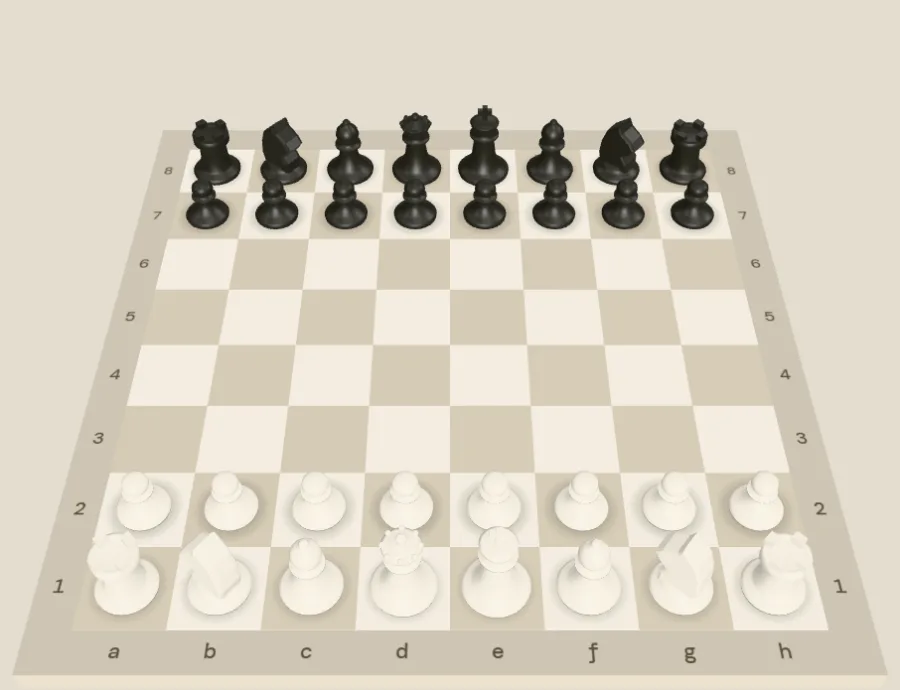
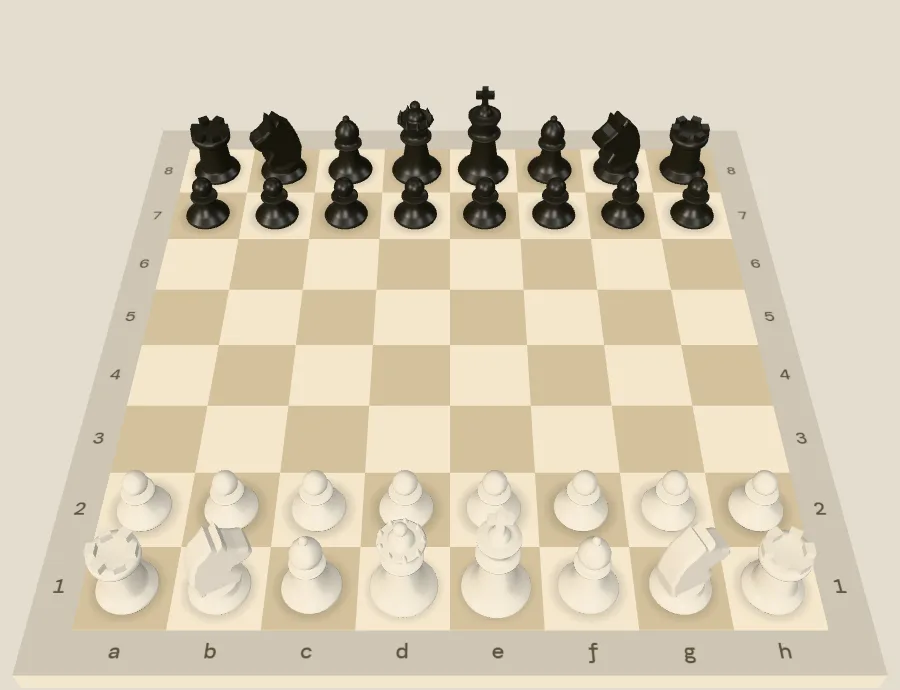
Redesign chess pieces as Staunton shapes with clearer contrast

Changed region(s): [[0.0622, 0.1217, 0.9022, 0.913], [0.2178, 0.1522, 0.2489, 0.1826], [0.1867, 0.1826, 0.2178, 0.213]]

diff --git a/assets/arcade/chess/pieces.js b/assets/arcade/chess/pieces.js
@@ -1,7 +1,11 @@
-// Procedural chess pieces: lathe profiles plus a few merged details. Built
+// Procedural Staunton pieces: lathe profiles plus a few merged details. Built
 // once at startup, so there is no model download. Units: one board square.
+// Each piece gets its own height and one bold signature (crenellations,
+// mitre, coronet, cross, horse head) so they read apart at a glance.
 import {
   BoxGeometry,
+  ConeGeometry,
+  CylinderGeometry,
   ExtrudeGeometry,
   LatheGeometry,
   Shape,
@@ -10,106 +14,104 @@ import {
 } from "three";
 import { mergeGeometries } from "three/addons/utils/BufferGeometryUtils.js";
 
-const SEGMENTS = 32;
+const SEGMENTS = 40;
 
-const BASE = [
-  [0, 0],
-  [0.34, 0],
-  [0.35, 0.05],
-  [0.31, 0.09],
-  [0.26, 0.12],
-  [0.23, 0.16],
-];
+// Stepped foot shared by every piece, scaled by its radius.
+function foot(r) {
+  return [
+    [0, 0],
+    [r, 0],
+    [r + 0.012, 0.025],
+    [r, 0.055],
+    [r - 0.035, 0.075],
+    [r - 0.04, 0.095],
+    [r - 0.075, 0.115],
+    [r - 0.085, 0.14],
+  ];
+}
+
+// Collar ring between stem and head.
+function collar(r, y) {
+  return [
+    [r - 0.02, y],
+    [r, y + 0.012],
+    [r, y + 0.03],
+    [r - 0.02, y + 0.042],
+  ];
+}
+
+// Quarter-to-half arcs for balls and domes, bottom to top.
+function arc(cy, radius, from = -Math.PI / 2, to = Math.PI / 2, steps = 10) {
+  const points = [];
+  for (let i = 0; i <= steps; i++) {
+    const a = from + ((to - from) * i) / steps;
+    points.push([Math.max(0, Math.cos(a) * radius), cy + Math.sin(a) * radius]);
+  }
+  return points;
+}
 
 const PROFILES = {
   p: [
-    [0, 0],
-    [0.3, 0],
-    [0.31, 0.05],
-    [0.28, 0.09],
-    [0.23, 0.12],
-    [0.21, 0.15],
-    [0.14, 0.22],
-    [0.11, 0.34],
-    [0.17, 0.37],
-    [0.17, 0.39],
-    [0.1, 0.41],
-    [0.13, 0.45],
-    [0.15, 0.5],
-    [0.14, 0.56],
-    [0.1, 0.6],
-    [0.05, 0.62],
-    [0, 0.625],
+    ...foot(0.3),
+    [0.16, 0.2],
+    [0.115, 0.33],
+    ...collar(0.19, 0.35),
+    [0.1, 0.405],
+    ...arc(0.53, 0.14, -1.05),
   ],
   r: [
-    ...BASE,
-    [0.2, 0.3],
-    [0.19, 0.52],
-    [0.23, 0.56],
-    [0.26, 0.58],
-    [0.26, 0.7],
-    [0.2, 0.7],
-    [0.2, 0.66],
-    [0, 0.66],
+    ...foot(0.33),
+    [0.225, 0.2],
+    [0.2, 0.52],
+    [0.22, 0.56],
+    [0.27, 0.6],
+    [0.28, 0.63],
+    [0.28, 0.72],
+    [0.18, 0.72],
+    [0.18, 0.69],
+    [0, 0.69],
   ],
   b: [
-    ...BASE,
-    [0.15, 0.28],
-    [0.12, 0.47],
-    [0.19, 0.5],
-    [0.19, 0.53],
-    [0.12, 0.55],
-    [0.15, 0.61],
-    [0.17, 0.69],
-    [0.15, 0.77],
-    [0.1, 0.83],
-    [0.04, 0.87],
-    [0.055, 0.9],
-    [0.035, 0.93],
-    [0, 0.94],
+    ...foot(0.32),
+    [0.17, 0.22],
+    [0.12, 0.48],
+    ...collar(0.2, 0.5),
+    [0.11, 0.56],
+    [0.14, 0.61],
+    [0.172, 0.68],
+    [0.172, 0.74],
+    [0.15, 0.8],
+    [0.11, 0.86],
+    [0.06, 0.9],
+    [0.035, 0.915],
+    ...arc(0.955, 0.05, -0.9),
   ],
   q: [
-    [0, 0],
-    [0.36, 0],
-    [0.37, 0.05],
-    [0.33, 0.09],
-    [0.28, 0.12],
-    [0.25, 0.16],
-    [0.17, 0.3],
-    [0.13, 0.58],
-    [0.2, 0.62],
-    [0.2, 0.65],
-    [0.14, 0.67],
-    [0.17, 0.76],
-    [0.22, 0.86],
-    [0.18, 0.88],
-    [0.1, 0.9],
-    [0.07, 0.94],
-    [0, 0.95],
+    ...foot(0.36),
+    [0.2, 0.24],
+    [0.14, 0.6],
+    ...collar(0.23, 0.63),
+    [0.13, 0.69],
+    [0.16, 0.78],
+    [0.22, 0.9],
+    [0.26, 0.95],
+    [0.24, 0.97],
+    [0.16, 0.975],
+    ...arc(0.975, 0.14, 0, Math.PI / 2, 6),
   ],
   k: [
-    [0, 0],
-    [0.37, 0],
-    [0.38, 0.05],
-    [0.34, 0.09],
-    [0.29, 0.12],
-    [0.26, 0.16],
-    [0.18, 0.3],
-    [0.14, 0.64],
-    [0.21, 0.68],
-    [0.21, 0.71],
-    [0.15, 0.73],
-    [0.18, 0.82],
-    [0.21, 0.9],
-    [0.17, 0.92],
-    [0.1, 0.94],
-    [0, 0.94],
+    ...foot(0.37),
+    [0.21, 0.24],
+    [0.15, 0.66],
+    ...collar(0.24, 0.69),
+    [0.14, 0.75],
+    [0.17, 0.86],
+    [0.235, 1.0],
+    [0.235, 1.03],
+    [0.16, 1.04],
+    ...arc(1.04, 0.12, 0, Math.PI / 2, 6),
   ],
-  n: [
-    ...BASE,
-    [0.2, 0.22],
-    [0, 0.22],
-  ],
+  n: [...foot(0.33), [0.23, 0.2], [0.23, 0.24], [0, 0.24]],
 };
 
 function lathe(points) {
@@ -123,33 +125,37 @@ function box(w, h, d, x, y, z) {
   return new BoxGeometry(w, h, d).translate(x, y, z);
 }
 
+// Horse head in profile, muzzle toward +x, extruded along z and centred.
 function knightHead() {
-  // Facing +x; extruded along z and centred.
   const points = [
-    [-0.18, 0.18],
-    [0.2, 0.18],
-    [0.2, 0.3],
-    [0.12, 0.42],
-    [0.24, 0.52],
-    [0.29, 0.6],
-    [0.23, 0.68],
-    [0.07, 0.79],
-    [0.03, 0.88],
-    [-0.05, 0.8],
-    [-0.14, 0.72],
-    [-0.2, 0.54],
-    [-0.22, 0.34],
+    [-0.21, 0.22],
+    [0.2, 0.22],
+    [0.23, 0.33],
+    [0.14, 0.47],
+    [0.17, 0.55],
+    [0.33, 0.6],
+    [0.38, 0.66],
+    [0.36, 0.72],
+    [0.26, 0.77],
+    [0.15, 0.86],
+    [0.13, 0.99],
+    [0.07, 0.91],
+    [0.02, 0.98],
+    [-0.05, 0.89],
+    [-0.15, 0.8],
+    [-0.21, 0.66],
+    [-0.25, 0.46],
   ];
   const shape = new Shape(points.map(([x, y]) => new Vector2(x, y)));
   const geometry = new ExtrudeGeometry(shape, {
-    depth: 0.22,
+    depth: 0.2,
     bevelEnabled: true,
-    bevelThickness: 0.05,
+    bevelThickness: 0.06,
     bevelSize: 0.035,
-    bevelSegments: 2,
-    curveSegments: 4,
+    bevelSegments: 4,
+    curveSegments: 1,
   });
-  return geometry.translate(0, 0, -0.11);
+  return geometry.translate(0, 0, -0.1);
 }
 
 function merge(parts) {
@@ -167,18 +173,34 @@ function merge(parts) {
 export function buildPieceGeometries() {
   const geometries = {};
   geometries.p = merge([lathe(PROFILES.p)]);
-  const merlons = [0, 1, 2, 3].map((i) => {
-    const a = (i * Math.PI) / 2 + Math.PI / 4;
-    return box(0.1, 0.09, 0.13, 0.2, 0.745, 0).rotateY(a);
-  });
+
+  // Six square merlons with clear gaps.
+  const merlons = Array.from({ length: 6 }, (_, i) =>
+    box(0.1, 0.1, 0.13, 0.215, 0.77, 0).rotateY((i * Math.PI) / 3),
+  );
   geometries.r = merge([lathe(PROFILES.r), ...merlons]);
+
   geometries.b = merge([lathe(PROFILES.b)]);
-  const crown = Array.from({ length: 8 }, (_, i) => {
-    const a = (i * Math.PI) / 4;
-    return new SphereGeometry(0.035, 8, 6).translate(Math.cos(a) * 0.2, 0.875, Math.sin(a) * 0.2);
+
+  // Coronet of points around the crown, with a ball on top.
+  const points = Array.from({ length: 9 }, (_, i) => {
+    const a = (i * Math.PI * 2) / 9;
+    return new ConeGeometry(0.045, 0.12, 8).translate(Math.cos(a) * 0.225, 1.0, Math.sin(a) * 0.225);
   });
-  geometries.q = merge([lathe(PROFILES.q), new SphereGeometry(0.06, 12, 8).translate(0, 0.99, 0), ...crown]);
-  geometries.k = merge([lathe(PROFILES.k), box(0.07, 0.24, 0.07, 0, 1.05, 0), box(0.2, 0.07, 0.07, 0, 1.08, 0)]);
+  geometries.q = merge([
+    lathe(PROFILES.q),
+    ...points,
+    new SphereGeometry(0.075, 16, 10).translate(0, 1.18, 0),
+  ]);
+
+  // A tall, bold cross.
+  geometries.k = merge([
+    lathe(PROFILES.k),
+    new CylinderGeometry(0.05, 0.07, 0.06, 16).translate(0, 1.18, 0),
+    box(0.085, 0.3, 0.085, 0, 1.34, 0),
+    box(0.26, 0.085, 0.085, 0, 1.37, 0),
+  ]);
+
   geometries.n = merge([lathe(PROFILES.n), knightHead()]);
   return geometries;
 }

diff --git a/assets/arcade/chess/view.js b/assets/arcade/chess/view.js
@@ -5,6 +5,7 @@ import {
   CanvasTexture,
   CircleGeometry,
   Color,
+  DirectionalLight,
   InstancedMesh,
   Matrix4,
   Mesh,
@@ -25,14 +26,14 @@ import { buildPieceGeometries } from "./pieces.js";
 const TYPES = ["p", "n", "b", "r", "q", "k"];
 const CAPACITY = { p: 16, n: 20, b: 20, r: 20, q: 18, k: 2 };
 const COLORS = {
-  light: new Color(0xe9e3d6),
-  dark: new Color(0xbdb4a1),
+  light: new Color(0xdcd1ba),
+  dark: new Color(0xab9d80),
   last: new Color(0xe3be45),
   selected: new Color(0xb93422),
   check: new Color(0xb93422),
   hover: new Color(0xb93422),
-  white: new Color(0xece6d8),
-  black: new Color(0x2c2b25),
+  white: new Color(0xebe4d4),
+  black: new Color(0x2a2924),
 };
 const FILES = "abcdefgh";
 
@@ -114,7 +115,18 @@ export class ChessView {
     // Pieces.
     const geometries = buildPieceGeometries();
     const pieceMaterial = new Material({ color: 0xffffff });
-    if (!quality.low) pieceMaterial.roughness = 0.48;
+    if (!quality.low) {
+      pieceMaterial.roughness = 0.36;
+      // Less ambient fill on the pieces only, so the key light models them.
+      pieceMaterial.envMap = scene.environment;
+      pieceMaterial.envMapIntensity = 0.4;
+    }
+    // A low raking key light gives the pieces a lit and a shaded side, so
+    // ivory pieces separate from the light squares. Low, so the flat board
+    // catches little of it.
+    const key = new DirectionalLight(0xfff3e2, quality.low ? 1 : 2.2);
+    key.position.set(-6, 3.5, 4);
+    scene.add(key);
     this.meshes = {};
     for (const type of TYPES) {
       const mesh = new InstancedMesh(geometries[type], pieceMaterial, CAPACITY[type]);
@@ -299,9 +311,9 @@ export class ChessView {
     for (const piece of this.pieces.values()) {
       const mesh = this.meshes[piece.type];
       const i = counts[piece.type]++;
-      // Knights face the opponent.
-      // Knights face the opponent, turned so their profile reads from the side.
-      const facing = piece.type === "n" ? (piece.color === "w" ? Math.PI / 2 + 0.9 : -Math.PI / 2 + 0.9) : 0;
+      // Knights look across the board toward the opponent, turned mostly
+      // side-on so the horse's profile faces the camera.
+      const facing = piece.type === "n" ? (piece.color === "w" ? 0.45 : Math.PI + 0.45) : 0;
       q.setFromAxisAngle(up, facing + piece.spin);
       p.set(piece.pos.x, piece.pos.y + piece.lift, piece.pos.z);
       s.setScalar(piece.scale);
